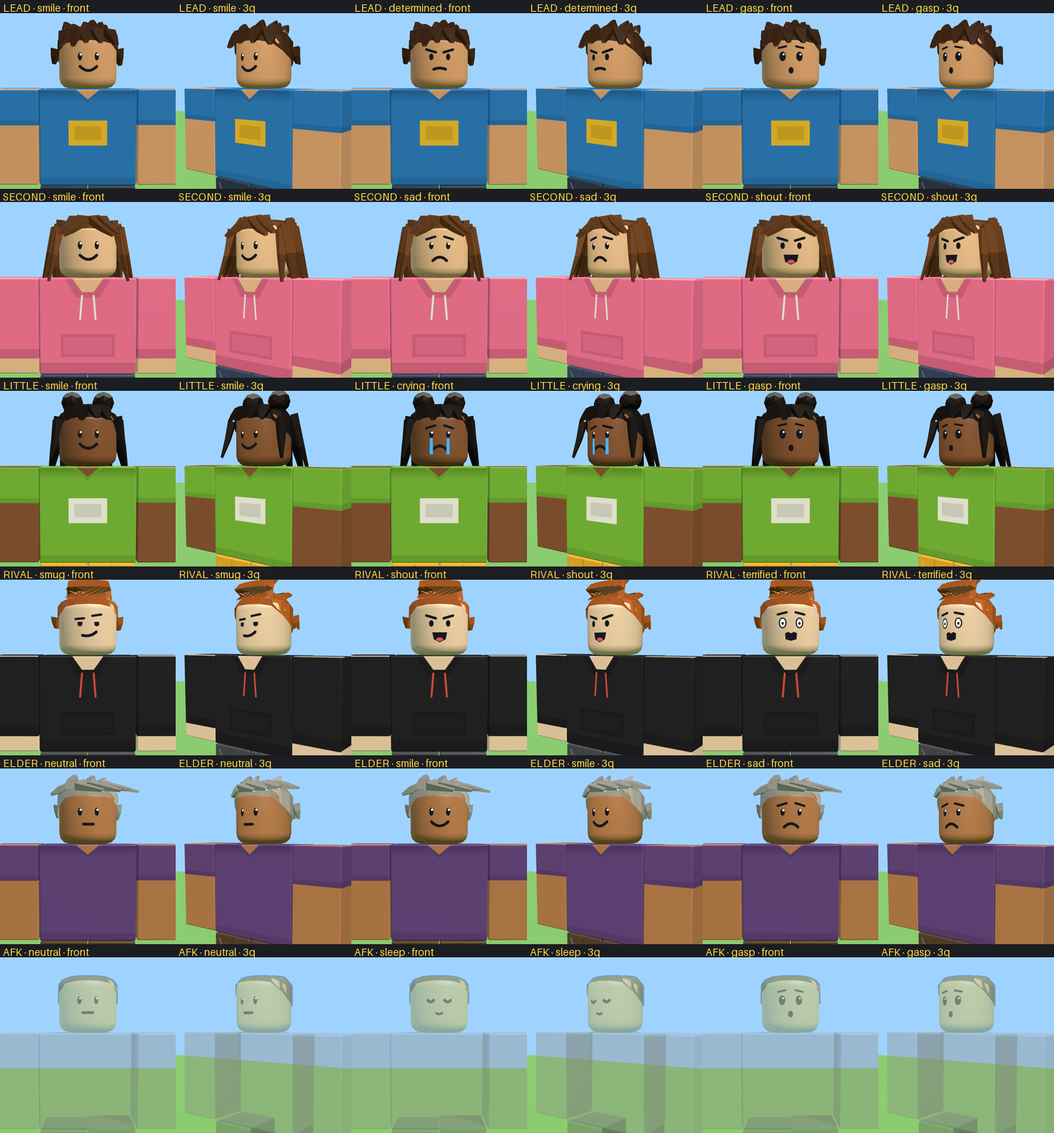
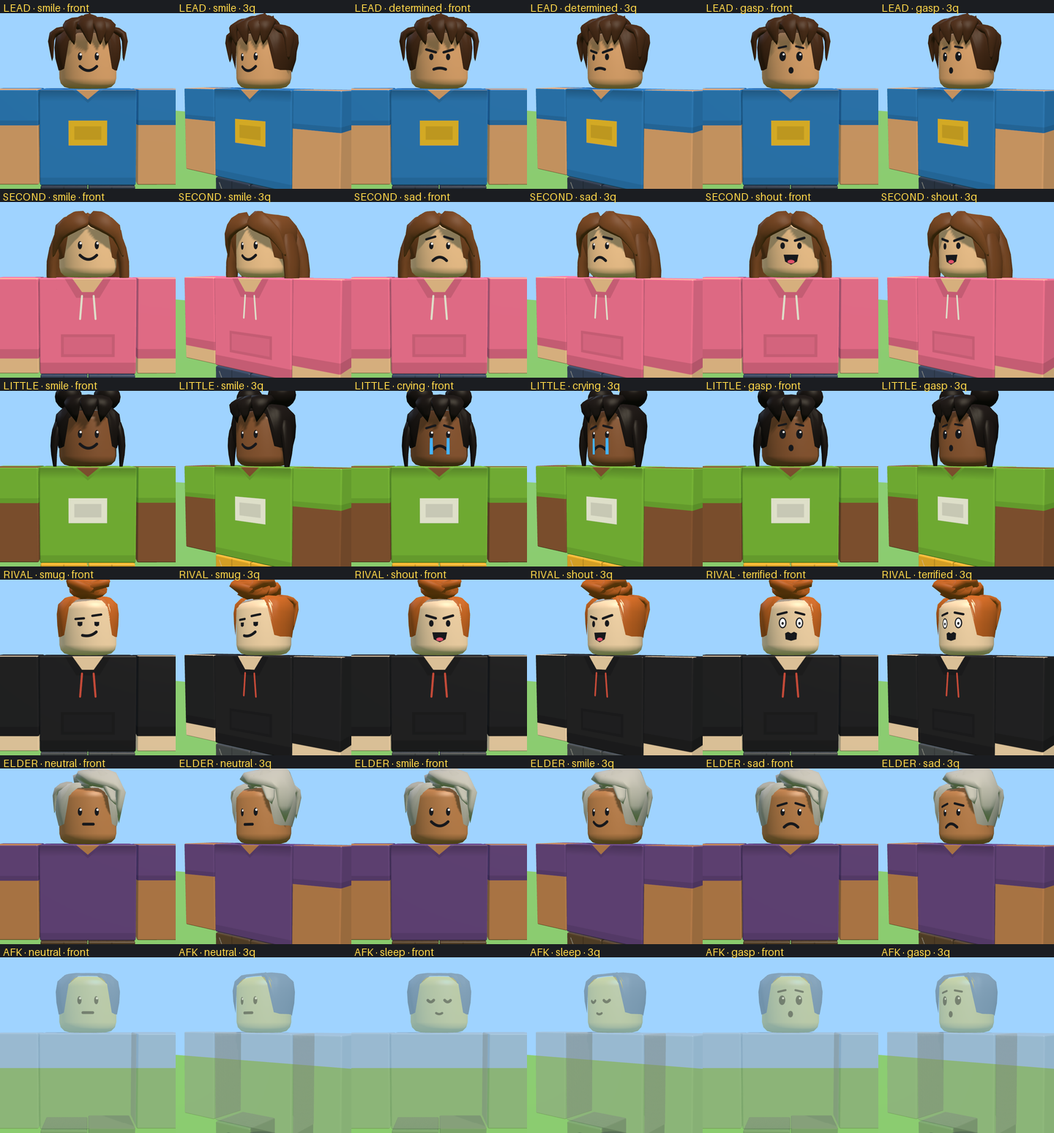
Session 8b: stop at the §E night gate (fails after two fix passes, numbers reported); far-tag fix; troupe sheet on v4; report
Claude-Session: https://claude.ai/code/session_01J6UjxwALwUXzwUnfoeqYWB

diff --git a/engine/fixtures/looktest/egg.js b/engine/fixtures/looktest/egg.js
@@ -9,9 +9,10 @@
 // Two kits from one layout (spec.kit): 'old' = the v2 kit (flat plates, Phong, block clouds), 'new' = A4 (terrain,
 // suburb biome, Standard hero materials with the env map, vegetation, water, v3 sky with stars and moon, height fog).
 import * as T from 'three';
+import {mergeGeometries, mergeVertices} from 'three/addons/utils/BufferGeometryUtils.js';
 
 export const TEAM = ['#e4574a', '#f2b632', '#2f80d1', '#9b59b6', '#1fb5a8', '#ff7aa8', '#7fc241', '#ff8c2e', '#4ad8ff', '#c0392b', '#f2e14a', '#8a6be8'];
-export const LOOK = spec => spec.kit === 'old' ? null : {fog: {color: '#2a3a66', near: 80, far: 340, height: {base: 0, falloff: 5, amount: .32, near: 30}}, envPreset: 'night', envIntensity: .5, cloudCover: .55, moon: {az: 172, el: 14, size: 3.2}, starDensity: 1.6};
+export const LOOK = spec => spec.kit === 'old' ? null : {fog: {color: '#2f5a86', near: 90, far: 360, height: {base: 0, falloff: 5, amount: .26, near: 30}}, envPreset: 'nightBright', envIntensity: .5, cloudCover: .55, moon: {az: 172, el: 14, size: 3.2}, starDensity: 1.6};
 export const LAYER = {plaza: .14, road: .1};
 const SQ = 18, ROAD = 33, BASE_R = 47, POND = [52, 44];
 
@@ -30,7 +31,7 @@ export function build(scene, {P, B, A, M, PR, TR, BI, V, W, look, spec}) {
       ...bases.map(b => ({type: 'pad', x0: b.x - 8, x1: b.x + 8, z0: b.z - 8, z1: b.z + 8, y: .4 + (b.i % 3) * .3, blend: 8})),
       {type: 'valley', from: [POND[0] - 8, POND[1]], to: [POND[0] + 10, POND[1] + 6], w: 16, depth: 3.2}];
     const height = TR.heightFn({seed: 5, controls}); groundY = height;
-    const terr = TR.buildTerrain({height, size: 640, chunk: 40, fine: 2, fullR: 70, focus: [[0, 10], [30, 40], [0, -30]], material: M.splatMaterial(bio.terrain.layers), splat: bio.terrain});
+    const terr = TR.buildTerrain({height, size: 660, chunk: 30, fine: 1.5, fullR: 60, focus: [[0, 10], [30, 40], [0, -30], [0, 76], [11, 32]], material: M.splatMaterial(bio.terrain.layers, {splat: bio.terrain, wetY: -1.1}), splat: bio.terrain});   // A5: per-pixel blend, 1.5-unit cells near the cameras
     scene.add(terr);
     const wat = W.water({height, x0: POND[0] - 22, x1: POND[0] + 24, z0: POND[1] - 14, z1: POND[1] + 18, y: -1.1, ...bio.water, sky: '#3a5aa0', foam: .1, envMap: look.envMap?.()});
     scene.add(wat.mesh); movers.push(wat);
@@ -38,16 +39,16 @@ export function build(scene, {P, B, A, M, PR, TR, BI, V, W, look, spec}) {
     const veg = V.vegetation({height, veg: {...bio.vegetation, flowerColors: ['#ffffff', '#9fc2ff', '#ffd23f']}, area: {x0: -150, x1: 150, z0: -150, z1: 130}, seed: 9, avoid, focus: [[0, 30], [36, 36]], nearR: 26, waterY: -1.1});
     scene.add(veg.group); movers.push(veg);
     // cloudtop bank beyond the town (the nest's world): soft white mounds lit by the moon
-    const cm = new T.MeshLambertMaterial({color: '#f4f6ff', emissive: '#8a9ad0', emissiveIntensity: .7, flatShading: true, fog: false}), cg = [];
-    for (let i = 0; i < 46; i++) { const g = new T.IcosahedronGeometry(16 + R() * 26, 2); g.scale(1.6, .7 + R() * .3, 1); g.translate(-300 + i * 13 + R() * 10, 52 + R() * 40 + Math.sin(i * .7) * 14, -330 - R() * 60); cg.push(g); }
-    const bank = new T.Mesh(merge(cg), cm); bank.name = 'cloudtop'; scene.add(bank);
+    const cm = new T.MeshLambertMaterial({color: '#f4f6ff', emissive: '#8a9ad0', emissiveIntensity: .7, fog: false}), cg = [];   // A5: smooth
+    for (let i = 0; i < 46; i++) { const g = mergeVertices((g0 => { g0.deleteAttribute('uv'); g0.deleteAttribute('normal'); return g0; })(new T.IcosahedronGeometry(16 + R() * 26, 3))); g.scale(1.6, .7 + R() * .3, 1); g.translate(-300 + i * 13 + R() * 10, 52 + R() * 40 + Math.sin(i * .7) * 14, -330 - R() * 60); cg.push(g); }
+    const bank = new T.Mesh((m => { m.computeVertexNormals(); return m; })(mergeGeometries(cg)), cm); bank.name = 'cloudtop'; scene.add(bank);
   } else {
     scene.add(P.plate(420, 420, {at: [0, -.2, 0], pattern: 'grass', color: '#79a85a'}));
     scene.add(P.plate(46, 32, {at: [POND[0], -.15, POND[1]], pattern: 'water', color: '#4f8fae', thick: .2}));
     for (let i = 0; i < 40; i++) { const a = R() * 6.28, r = 70 + R() * 80, t = PR.smallProp('tree', i); t.position.set(Math.sin(a) * r, 0, Math.cos(a) * r); scene.add(t); }
   }
   // plaza disc and ring road (ribbons follow the ground)
-  const plaza = P.cylinder(SQ, .4, {seg: 40, mat: mt('cobble', '#b9b2a6'), name: 'plaza'}); plaza.position.set(0, groundY(0, 0) + LAYER.plaza - .2, 0); scene.add(plaza);
+  const plaza = P.cylinder(SQ, .4, {seg: 40, mat: mt('cobble', NEW ? '#7d786e' : '#b9b2a6'), name: 'plaza'});   // A5: darker under the night key so the cast reads brighter than the ground plaza.position.set(0, groundY(0, 0) + LAYER.plaza - .2, 0); scene.add(plaza);
   const ring = new T.EllipseCurve(0, 0, ROAD, ROAD, 0, Math.PI * 2), rp = ring.getPoints(64).map(p => new T.Vector3(p.x, 0, p.y)), road = new T.CatmullRomCurve3(rp, true);
   scene.add(B.ribbon(road, 8, (x, z) => groundY(x, z) + LAYER.road, {material: mt('asphalt', '#5a5d66'), tile: 6}));
   for (const k of [0, 3, 6, 9]) { const a = (k + .5) / 12 * Math.PI * 2, c = new T.LineCurve3(new T.Vector3(Math.sin(a) * (SQ - 1), 0, Math.cos(a) * (SQ - 1)), new T.Vector3(Math.sin(a) * (ROAD - 3), 0, Math.cos(a) * (ROAD - 3))); scene.add(B.ribbon(c, 5, (x, z) => groundY(x, z) + LAYER.road + .02, {material: mt('concrete', '#a8a49a')})); }
@@ -97,7 +98,7 @@ export function build(scene, {P, B, A, M, PR, TR, BI, V, W, look, spec}) {
   const lamp = () => { const g = new T.Group(); g.add(P.cylinder(.16, 5, {at: [0, 2.5, 0], seg: 6, mat: mt('metal', '#2e3138')})); const l = new T.Mesh(new T.BoxGeometry(.7, .9, .7), new T.MeshPhongMaterial({color: '#fff1c8', emissive: '#ffc46b', emissiveIntensity: 1.4})); l.position.y = 5.3; g.add(l); return g; };
   // warm light pools under lamps and doors (additive ground decals: cheap practical light at night)
   let poolTex = null;
-  const pool = (x, z, r = 5, c = '#ffb45a', o = .55) => {
+  const pool = (x, z, r = 5, c = '#ffb45a', o = .32) => {
     if (!poolTex && typeof document !== 'undefined') { const cv = document.createElement('canvas'); cv.width = cv.height = 128; const g = cv.getContext('2d'), gr = g.createRadialGradient(64, 64, 0, 64, 64, 64); gr.addColorStop(0, 'rgba(255,255,255,1)'); gr.addColorStop(.5, 'rgba(255,255,255,.35)'); gr.addColorStop(1, 'rgba(255,255,255,0)'); g.fillStyle = gr; g.fillRect(0, 0, 128, 128); poolTex = new T.CanvasTexture(cv); }
     const m = new T.Mesh(new T.PlaneGeometry(2 * r, 2 * r), new T.MeshBasicMaterial({map: poolTex, color: c, transparent: true, opacity: o, blending: T.AdditiveBlending, depthWrite: false, fog: true}));
     m.rotation.x = -Math.PI / 2; m.position.set(x, groundY(x, z) + .3, z); m.renderOrder = 2; scene.add(m); return m; };
@@ -111,15 +112,18 @@ export function build(scene, {P, B, A, M, PR, TR, BI, V, W, look, spec}) {
   scene.add(hero);
   if (NEW) {
     // warm practical light: two real point lights over the square (≤ 4 allowed) key the avatars and pool on the cobbles
-    for (const [x, z] of [[-9, 10], [9, 6]]) { const l = new T.PointLight('#ffb866', 26, 30, 1.6); l.position.set(x, groundY(x, z) + 6.5, z); scene.add(l); }
+    for (const [x, z] of [[-9, 10], [9, 6]]) { const l = new T.PointLight('#ffb866', 14, 26, 1.6); l.position.set(x, groundY(x, z) + 7.5, z); scene.add(l); }
+    // A5 §E: a glowing egg on the square is a real light source (third point light of ≤ 4)
+    const eg = new T.Mesh(new T.SphereGeometry(.55, 16, 12), new T.MeshPhongMaterial({color: '#fff3c8', emissive: '#ffc14a', emissiveIntensity: 1.6})); eg.scale.set(1, 1.3, 1); eg.position.set(-.6, groundY(0, 10) + .75, 11.5); eg.name = 'egg'; scene.add(eg);
+    const el = new T.PointLight('#ffcc66', 18, 14, 1.4); el.position.set(-.6, groundY(0, 10) + 1.6, 11.5); scene.add(el);
     // gardens: a hedge pair flanking every base door + a tree between neighbouring bases
-    const hedge = new T.MeshPhongMaterial({color: '#4f7a3a', flatShading: true, shininess: 6}), trunk = new T.MeshPhongMaterial({color: '#5a4232', flatShading: true}), crown = new T.MeshPhongMaterial({color: '#3f6a34', flatShading: true});
+    const hedge = new T.MeshPhongMaterial({color: '#4f7a3a', shininess: 6, map: M.patternTexture('leaves')}), trunk = new T.MeshPhongMaterial({color: '#5a4232', map: M.patternTexture('bark')}), crown = new T.MeshPhongMaterial({color: '#3f6a34', shininess: 8, map: M.patternTexture('leaves')});   // A5: smooth
     for (const b of bases) {
       const fx = -Math.sin(b.a), fz = -Math.cos(b.a), sx = Math.cos(b.a), sz = -Math.sin(b.a);
-      for (const k of [-1, 1]) { const h = new T.Mesh(new T.IcosahedronGeometry(1.3, 0), hedge); h.scale.set(1.5, .9, 1); const x = b.x + fx * 6.5 + sx * k * 4.2, z = b.z + fz * 6.5 + sz * k * 4.2; h.position.set(x, groundY(x, z) + .9, z); h.rotation.y = b.a; h.castShadow = true; scene.add(h); }
+      for (const k of [-1, 1]) { const h = new T.Mesh(new T.IcosahedronGeometry(1.3, 1), hedge); h.scale.set(1.5, .9, 1); const x = b.x + fx * 6.5 + sx * k * 4.2, z = b.z + fz * 6.5 + sz * k * 4.2; h.position.set(x, groundY(x, z) + .9, z); h.rotation.y = b.a; h.castShadow = true; scene.add(h); }
       const a2 = b.a + Math.PI / 12, x = Math.sin(a2) * (BASE_R + 3), z = Math.cos(a2) * (BASE_R + 3), y = groundY(x, z);
       const tr = new T.Mesh(new T.CylinderGeometry(.4, .55, 4, 5), trunk); tr.position.set(x, y + 2, z); scene.add(tr);
-      for (const [dy, r] of [[5.2, 2.8], [6.8, 2.1]]) { const c = new T.Mesh(new T.IcosahedronGeometry(r, 0), crown); c.position.set(x, y + dy, z); c.castShadow = true; scene.add(c); }
+      for (const [dy, r] of [[5.2, 2.8], [6.8, 2.1]]) { const c = new T.Mesh(new T.IcosahedronGeometry(r, 1), crown); c.position.set(x, y + dy, z); c.castShadow = true; scene.add(c); }
     }
   }
   movers.push(A.birds({centre: [10, 46, -40], n: 4, r: 30, seed: 3}));

diff --git a/scripts/v2/look-gates.js b/scripts/v2/look-gates.js
@@ -1,0 +1,57 @@
+// scripts/v2/look-gates.js — measured look gates (Amendment A5 §E night brightness, §F framing). Exit 1 on failure.
+//   node scripts/v2/look-gates.js --spec <episode.json> [--night <shot ids>] [--framing] [--out <file.json>]
+// Renders each tested shot's middle frame at 390×693 (phone width) and measures, on the sRGB pixels (luma 0–1, Rec. 709):
+//   night (§E): frame mean 0.24–0.42 · mean inside each hero actor's box ≥ 0.40 · box − its surrounding ring ≥ 0.12
+//     (ring = the box grown by 50 % of its size on every side, minus the box; hero = troupe actors except AFK, or spec.lumaActors)
+//   framing (§F, shots with `fit`): subject height (head & shoulders for part 'head', else the full actor) ≥ 45 % close,
+//     ≥ 30 % medium/heroLow; empty ground below the feet ≤ 28 % unless the shot is `spectacle`.
+import {writeFile, mkdir} from 'node:fs/promises';
+import path from 'node:path';
+import {readFileSync} from 'node:fs';
+import {startServer} from './server.js';
+import {launch} from './browser.js';
+import {framingCheck} from '../../engine/camera.js';
+
+const argv = process.argv.slice(2), arg = (k, d) => { const i = argv.indexOf('--' + k); return i >= 0 ? argv[i + 1] : d; };
+const spec = arg('spec'), out = arg('out', `review/season1/look-gates-${path.basename(spec, '.json')}.json`), nightIds = (arg('night', '') || '').split(',').filter(Boolean), doFraming = argv.includes('--framing');
+const S = JSON.parse(readFileSync(spec, 'utf8')), W = 390, H = 693, LIM = {frame: [.24, .42], actor: .40, contrast: .12};
+const server = await startServer(), browser = await launch(), report = {spec, limits: {night: LIM, framing: {close: .45, medium: .30, heroLow: .30, groundMax: .28}}, night: [], framing: [], failures: []};
+try {
+  const page = await browser.newPage(); const errors = []; page.on('pageerror', e => errors.push(e.message));
+  await page.goto(`${server.url}/engine/episode.html?spec=${encodeURIComponent(spec)}&aa=1`); await page.waitForFunction(() => window.__episode, null, {timeout: 180000});
+  const shots = await page.evaluate(() => window.__episode.shots);
+  for (const sh of shots) {
+    const isNight = nightIds.includes(sh.id), isFit = doFraming && sh.fit; if (!isNight && !isFit) continue;
+    const n = sh.start + Math.floor(sh.frames / 2);
+    const m = await page.evaluate(([n, W, H]) => {
+      const E = window.__episode; E.renderFrame(n, W, H); const meas = E.measureFrame(), gl = E.debug.renderer.getContext(), px = new Uint8Array(W * H * 4); gl.readPixels(0, 0, W, H, gl.RGBA, gl.UNSIGNED_BYTE, px);
+      const L = (x, y) => { const i = ((H - 1 - y) * W + x) * 4; return (.2126 * px[i] + .7152 * px[i + 1] + .0722 * px[i + 2]) / 255; };
+      const mean = (x0, x1, y0, y1, skip) => { let s = 0, k = 0; for (let y = Math.max(0, y0); y < Math.min(H, y1); y++) for (let x = Math.max(0, x0); x < Math.min(W, x1); x++) { if (skip && skip(x, y)) continue; s += L(x, y); k++; } return k ? s / k : null; };
+      const frame = mean(0, W, 0, H), actors = {};
+      for (const [name, a] of Object.entries(meas)) { const b = a.box, X0 = Math.round(b.x0 * W), X1 = Math.round(b.x1 * W), Y0 = Math.round(b.y0 * H), Y1 = Math.round(b.y1 * H), gw = Math.round((X1 - X0) * .5), gh = Math.round((Y1 - Y0) * .5);
+        const inBox = mean(X0, X1, Y0, Y1), ring = mean(X0 - gw, X1 + gw, Y0 - gh, Y1 + gh, (x, y) => x >= X0 && x < X1 && y >= Y0 && y < Y1);
+        actors[name] = {...a, luma: inBox, ring}; }
+      return {frame, actors};
+    }, [n, W, H]);
+    if (isNight) {
+      const heroes = Object.entries(m.actors).filter(([k, a]) => (S.lumaActors ? S.lumaActors.includes(k) : a.troupe && a.troupe !== 'AFK') && a.front && a.box.x1 > 0 && a.box.x0 < 1 && a.box.y1 > 0 && a.box.y0 < 1);
+      const row = {shot: sh.id, frame: n, look: sh.look, frameLuma: +m.frame.toFixed(3), actors: Object.fromEntries(heroes.map(([k, a]) => [k, {luma: +a.luma.toFixed(3), ring: +a.ring.toFixed(3), contrast: +(a.luma - a.ring).toFixed(3)}]))};
+      report.night.push(row);
+      if (m.frame < LIM.frame[0] || m.frame > LIM.frame[1]) report.failures.push(`${sh.id}: frame luma ${m.frame.toFixed(3)} outside ${LIM.frame}`);
+      if (!heroes.length) report.failures.push(`${sh.id}: no hero actor in frame`);
+      for (const [k, a] of heroes) { if (a.luma < LIM.actor) report.failures.push(`${sh.id}/${k}: actor luma ${a.luma.toFixed(3)} < ${LIM.actor}`); if (a.luma - a.ring < LIM.contrast) report.failures.push(`${sh.id}/${k}: box − ring ${(a.luma - a.ring).toFixed(3)} < ${LIM.contrast}`); }
+    }
+    if (isFit) {
+      const a = m.actors[sh.fit.actor]; if (!a) { report.failures.push(`${sh.id}: fit actor ${sh.fit.actor} not visible`); continue; }
+      const part = sh.fit.part ?? 'full', subjectFrac = part === 'head' ? a.shoulder - a.top : a.feet - a.top, groundGap = part === 'head' || a.feet > 1 ? 0 : Math.max(0, 1 - a.feet);
+      const chk = framingCheck({size: sh.size, move: sh.move, subjectFrac, groundGap, spectacle: sh.spectacle});
+      report.framing.push({shot: sh.id, frame: n, size: sh.size, move: sh.move, part, subjectFrac: +subjectFrac.toFixed(3), groundGap: +groundGap.toFixed(3), need: chk.need, ok: chk.ok});
+      for (const i of chk.issues) report.failures.push(`${sh.id}: ${i}`);
+    }
+  }
+  if (errors.length) report.failures.push(...errors);
+  report.result = report.failures.length ? 'FAIL' : 'PASS';
+  await mkdir(path.dirname(out), {recursive: true}); await writeFile(out, JSON.stringify(report, null, 1));
+  console.log(JSON.stringify({result: report.result, night: report.night, framing: report.framing, failures: report.failures}, null, 1));
+  process.exitCode = report.failures.length ? 1 : 0;
+} finally { await browser.close(); await server.close(); }

diff --git a/engine/episode.js b/engine/episode.js
@@ -101,8 +101,8 @@ for (const s of shots) if (s.fit && s.fit.h === undefined && cast[s.fit.actor]) 
 // A4 night "actor lift" (opt-in spec.actorLift, v3 looks only): plastic avatars get a small self-light (emissive = their
 // own colour / texture × k) so they stay the highest-contrast thing in a dark frame. Faces (MeshBasic) are untouched.
 const usesNightBright = spec.look === 'nightBright' || (spec.shots ?? []).some(s => s.look === 'nightBright');
-if (look?.v3 && (spec.actorLift ?? (usesNightBright ? .24 : 0))) {   // A5 §E: on by default under nightBright
-  const k = spec.actorLift ?? .24, seen = new Set();
+if (look?.v3 && (spec.actorLift ?? (usesNightBright ? .5 : 0))) {   // A5 §E: on by default under nightBright
+  const k = spec.actorLift ?? .5, seen = new Set();
   for (const {a, v2} of Object.values(cast)) if (v2) a.root.traverse(o => { if (!o.isMesh || seen.has(o.material) || o.material.isMeshBasicMaterial || !o.material.emissive) return; const m = o.material; seen.add(m);
     if (m.map) { m.emissiveMap = m.map; m.emissive.setRGB(k, k, k); } else if (m.vertexColors) m.emissive.setRGB(k * .5, k * .45, k * .4); else m.emissive.copy(m.color).multiplyScalar(k); m.needsUpdate = true; });
 }
@@ -264,6 +264,20 @@ export function inspectFrame(n, width = 540, height = 960) {
   const cards = effects.cards(t, camera, width / height).map(k => ({cls: k.cls, kind: k.kind, rect: k.rect, landed: k.state.landed, fly: k.state.fly}));   // A3
   return {frame: n, shot: shot.id, camera: {position: c.position, target: c.target, fov: c.fov}, heads, cards};
 }
+// A5 gates: after renderFrame(n), projected boxes (frame fractions, y down) of visible v2 actors' meshes (no tags/sprites)
+// and their framing spans (feet, shoulders at 0.6 H, top at 1.02 H, projected at the actor's mark).
+export function measureFrame() {
+  const out = {}; camera.updateMatrixWorld(true); const v = new T.Vector3(), b = new T.Box3(), mb = new T.Box3();
+  for (const [name, {a, c, v2}] of Object.entries(cast)) {
+    if (!v2 || !a.root.visible) continue; b.makeEmpty();
+    a.root.traverseVisible(o => { if (!o.isMesh || o.isSprite) return; if (!o.geometry.boundingBox) o.geometry.computeBoundingBox(); mb.copy(o.geometry.boundingBox).applyMatrix4(o.matrixWorld); b.union(mb); });
+    if (b.isEmpty()) continue; let x0 = 1, x1 = 0, y0 = 1, y1 = 0, front = false;
+    for (let i = 0; i < 8; i++) { v.set(i & 1 ? b.max.x : b.min.x, i & 2 ? b.max.y : b.min.y, i & 4 ? b.max.z : b.min.z).project(camera); if (v.z < 1) front = true; const x = (v.x + 1) / 2, y = (1 - v.y) / 2; x0 = Math.min(x0, x); x1 = Math.max(x1, x); y0 = Math.min(y0, y); y1 = Math.max(y1, y); }
+    const H = 5.3 * a.root.scale.y, m = markPos[name] ?? a.root.position.toArray(), py = h => (1 - v.set(m[0], m[1] + h, m[2]).project(camera).y) / 2;
+    out[name] = {front, box: {x0, x1, y0, y1}, feet: py(0), shoulder: py(.6 * H), top: py(1.02 * H), troupe: c.troupe ?? null};
+  }
+  return out;
+}
 export function shotSpeed(i) { const s = shots[i]; return maxTargetSpeed({...s, fps: FPS, openHit: false}, tt => poseCast(s.start / FPS + tt), FPS); }
 
-window.__episode = {debug: {scene, renderer}, breakdown, inspectFrame, shotSpeed, END: FRAMES / FPS, anchors: Object.fromEntries(Object.entries(anchors).filter(([, a]) => a.camera).map(([k]) => [k, true])), renderAnchor, renderAnchorNudged, renderCamera, FPS, FRAMES, shots: shots.map(({id, start, frames, size, move, loc, subject, see, openHit, at, why, captionY}) => ({id, start, frames, size, move, loc, subject, see, openHit: !!openHit, at, why, captionY})), renderFrame};
+window.__episode = {debug: {scene, renderer}, breakdown, measureFrame, inspectFrame, shotSpeed, END: FRAMES / FPS, anchors: Object.fromEntries(Object.entries(anchors).filter(([, a]) => a.camera).map(([k]) => [k, true])), renderAnchor, renderAnchorNudged, renderCamera, FPS, FRAMES, shots: shots.map(({id, start, frames, size, move, loc, subject, see, openHit, at, why, captionY, fit, spectacle, look: lk}) => ({id, start, frames, size, move, loc, subject, see, openHit: !!openHit, at, why, captionY, fit, spectacle: !!spectacle, look: lk})), renderFrame};

diff --git a/engine/ruleui.js b/engine/ruleui.js
@@ -16,6 +16,7 @@ export const MIN_CAP = {tag: .024, stat: .03, bar: .03, plate: .03, icon: .03, c
 // Text cap height as a fraction of the drawn sprite's height (measured from the canvas layouts below and in overhead.js).
 export const CAP_RATIO = {nameTag: .5, nameTagRole: .35, tag: .5, stat: .35, bar: .17, plate: .41, icon: .6, checklist: .12, card: .1};
 export const SAFE = {side: .05, top: .08, bottom: .95, band: [.58, .74]};
+const MAX_DIST = 45;   // world units: farther tags/UI keep their natural size (a far crowd of tags must not grow to 2.4 %)
 // Scale factor (≥ 1) that lifts a cap height of `capFrac` to at least `minFrac`.
 export const minScale = (capFrac, minFrac) => capFrac > 0 && capFrac < minFrac ? minFrac / capFrac : 1;
 // Shift {dx, dy} (frame fractions, y down) that moves rect {x0, x1, y0, y1} inside the safe area and out of the caption band.
@@ -46,6 +47,7 @@ export function enforceReadable(scene, camera, {focus = [], band = SAFE.band} = 
     const d = _w.clone().sub(_c).dot(new T.Vector3(0, 0, -1).applyQuaternion(_q)); if (d <= .1) continue;
     const frameH = 2 * d * tanH, frameW = frameH * camera.aspect;
     const key = kind === 'nameTag' || kind === 'nameTagRole' ? 'tag' : kind, minF = focus.includes(o.userData.uiId) ? MIN_CAP.focus : MIN_CAP[key] ?? .03;
+    const ndc0 = _w.clone().project(camera); if (Math.abs(ndc0.x) > 1 || Math.abs(ndc0.y) > 1 || d > MAX_DIST) continue;   // only elements anchored inside the frame and near enough to matter
     const k = minScale(Hw / frameH * (CAP_RATIO[kind] ?? .35), minF); if (k > 1) o.scale.multiplyScalar(k);
     const ndc = _w.clone().project(camera), cx = (ndc.x + 1) / 2, by = (1 - ndc.y) / 2, h = Hw * k / frameH, w = Ww * k / frameW;   // sprites anchor bottom-centre
     const {dx, dy} = safeShift({x0: cx - w / 2, x1: cx + w / 2, y0: by - h, y1: by}, {band});

diff --git a/engine/fixtures/tools/world.js b/engine/fixtures/tools/world.js
@@ -12,8 +12,8 @@ export function build(scene, {P, B, A, M, PR, TR, BI, V, W, look, spec}) {
   const controls = [{type: 'noise', amp: 1.2, scale: 30}, {type: 'ridge', from: [-260, -150], to: [260, -140], w: 80, h: 30}, {type: 'hill', at: [-110, 0], r: 80, h: 22}, {type: 'hill', at: [120, 20], r: 80, h: 18},
     {type: 'pad', x0: -14, x1: 14, z0: 10, z1: 34, y: 0, blend: 8}, {type: 'river', points: [[-200, 70], [0, 62], [200, 74]], w: 12, depth: 2.4, bank: 6}];
   const height = TR.heightFn({seed: 31, controls});
-  const mat = M.splatMaterial(bio.terrain.layers);
-  scene.add(TR.buildTerrain({height, size: 560, chunk: 40, fine: 2, fullR: 60, focus: [[0, 20], [0, -50]], material: mat, splat: bio.terrain}));
+  const mat = M.splatMaterial(bio.terrain.layers);   // per-vertex: the landform giant keeps its Session 8 material (out of scope in 8b)
+  scene.add(TR.buildTerrain({height, size: 570, chunk: 30, fine: 1.5, fullR: 60, focus: [[0, 20], [0, -50], [0, 60], [4, 43]], material: M.splatMaterial(bio.terrain.layers, {splat: bio.terrain, wetY: -1.2}), splat: bio.terrain}));   // A5: per-pixel blend
   const wat = W.water({height, x0: -220, x1: 220, z0: 52, z1: 84, y: -1.2, ...bio.water, sky: '#b9c9d6', flow: [1, 0], speed: .06, envMap: look.envMap?.()}); scene.add(wat.mesh); movers.push(wat);
   const veg = V.vegetation({height, veg: bio.vegetation, area: {x0: -180, x1: 180, z0: -160, z1: 140}, seed: 6, focus: [[0, 26]], nearR: 22, waterY: -1.2,
     avoid: (x, z) => (Math.abs(x) < 20 && z > 0 && z < 40) || Math.hypot(x - GIANT[0], (z - GIANT[1]) * .8) < 90 || (Math.abs(x) < 4 && z < 10 && z > -20)});

diff --git a/engine/look.js b/engine/look.js
@@ -15,8 +15,8 @@ export const PRESETS = {
   storm: {skyTop: '#4a5566', skyHorizon: '#8a96a6', fog: '#8a96a6', fogNear: 40, fogFar: 200, hemiSky: '#b8c2d0', hemiGround: '#55604a', hemi: 1.0,
     sun: '#dfe6f0', sunI: 1.0, sunEl: 60, sunAz: 20, rim: '#cfd8e6', rimI: .3, cloud: '#7d8796', exposure: 1.05, windows: .3},
   // A5 §E: a night bright enough for a phone: strong cool moon key, teal-blue ambient, raised exposure (episode 1 is all night)
-  nightBright: {skyTop: '#123a6a', skyHorizon: '#4a86b8', fog: '#2f5a86', fogNear: 90, fogFar: 340, hemiSky: '#8fd0e0', hemiGround: '#35566e', hemi: 1.9,
-    sun: '#cfe0ff', sunI: 2.3, sunEl: 38, sunAz: 168, rim: '#b8dcff', rimI: 1.5, cloud: '#5a76a8', exposure: 1.5, windows: 1.5},
+  nightBright: {skyTop: '#123a6a', skyHorizon: '#4a86b8', fog: '#2f5a86', fogNear: 90, fogFar: 340, hemiSky: '#7cc0d4', hemiGround: '#22394a', hemi: 1.15,
+    sun: '#cfe0ff', sunI: 1.6, sunEl: 38, sunAz: 168, rim: '#c4e2ff', rimI: 3.4, cloud: '#5a76a8', exposure: 1.16, windows: 1.5},
   fireNight: {skyTop: '#3a2244', skyHorizon: '#ff9a5a', fog: '#8a4a42', fogNear: 60, fogFar: 260, hemiSky: '#ffb487', hemiGround: '#4a3a5a', hemi: 1.5,
     sun: '#ff9a4a', sunI: 1.6, sunEl: 26, sunAz: 300, rim: '#9fc2ff', rimI: 1.2, cloud: '#6a3a48', exposure: 1.35, windows: 1.2},
 };

diff --git a/engine/fixtures/looktest/ragdoll.js b/engine/fixtures/looktest/ragdoll.js
@@ -41,7 +41,7 @@ export function build(scene, {P, B, A, M, PR, TR, BI, V, W, look, spec}) {
       {type: 'river', points: [[-400, 150], [-100, 156], [100, 146], [400, 152]], w: 16, depth: 3, bank: 8}];
     const height = TR.heightFn({seed: 17, base: BASE, controls}); groundY = height;
 
-    scene.add(TR.buildTerrain({height, size: 720, chunk: 40, fine: 2, fullR: 60, focus: [[0, 60], [0, 0], [0, -60]], centre: [0, -20], material: M.splatMaterial(bio.terrain.layers), splat: bio.terrain}));
+    scene.add(TR.buildTerrain({height, size: 720, chunk: 30, fine: 1.5, fullR: 60, focus: [[0, 60], [0, 0], [0, -60], [3, 96], [-5, 30]], centre: [0, -20], material: M.splatMaterial(bio.terrain.layers, {splat: bio.terrain, wetY: VALLEY_Y - 1.4}), splat: bio.terrain}));   // A5: per-pixel blend, 1.5-unit cells
     const wat = W.water({height, x0: -300, x1: 300, z0: 128, z1: 172, y: VALLEY_Y - 1.4, ...bio.water, sky: '#cfe4f5', flow: [1, .1], speed: .08, envMap: look.envMap?.()});
     scene.add(wat.mesh); movers.push(wat);
     const avoid = (x, z) => (Math.abs(x) < 24 && z > -110 && z < 92) || lots.some(l => Math.abs(x - l.x) < 8 && Math.abs(z - l.z) < 8);

diff --git a/PROGRESS.md b/PROGRESS.md
@@ -372,3 +372,51 @@ Also built: `render.js --final` (1440×2560, AA). `scripts/v2/qc.py` (`npm run v
 7. F: pure `fit` framing (close ≥ 45 %, medium/heroLow ≥ 30 %, empty ground ≤ 28 %) + tests; demo shots use it.
 8. G: re-shoot tools-demo (+ nightBright medium, close-up with crowd), 3-column look-ab; bench, stability, Nobody 11-frame
    re-render; three weakest things per sheet in this file; PR; stop.
+
+## Session 8b — STOPPED at §E (night luma check failed after two fix passes; reported, not loosened) — 2026-11-14
+- **Done:**
+  - **§S:** the acceptance rule is in `CLAUDE.md`.
+  - **§A:** `avatar-style/hair4.js` holds all 20 styles as data tables. They use only the blocks `mass`, `clump`, `bun`, `braid` and `curls`, in hero, mid and crowd tiers. `hair: {v: 4}` is wired in, and the troupe uses it.
+  - **§A gates:** `scripts/v2/hair-gates.js` (+ `engine/hairgate.html`) → `hair-gates.json` **PASS** for all 20 styles:
+    - scalp leak 0 px on every view (buzz included);
+    - closest outline pair IoU 0.763 / 0.839 (`messy_fringe`–`curtains`, front/side);
+    - thin bits ≤ 6 %;
+    - hero ≤ 2,276 tris (curly_top), mid ≤ 618, crowd 50;
+    - eye line held on every tier.
+  - **§B:** crowd heads are the low lathe head with v4 crowd hair in six colours. A pure `promoteNear` (close/medium, < 9 units, ≤ 8, nearest first) swaps near members for mid-tier actors.
+  - **§C:** pure `minScale` / `safeShift` (tags 2.4 %, stats/plates 3 %, `focusUi` 4.5 %; 5 % sides, 8 % top, caption band 58–74 %), applied per frame in v3 worlds only. Elements anchored off-frame or farther than 45 units are left alone; this fixes a bug where far tags were enlarged.
+  - **§D:** per-pixel splat blend (world normal + height + world-space noise; wet band at the waterline), 1.5-unit near cells, smooth welded blob trees (≤ 252 tris, `leaves`/`bark`), stronger water, contrasty storm clouds. Landform geometry and material untouched (owner's rule).
+  - **§E (partly):** `nightBright` look; `actorLift` on by default under it; a glowing egg as a third point light.
+  - **§F:** pure `fitDistance` / `applyFit` / `framingCheck` + `fit` on heroLow, snap, push and orbit.
+  - Tests: `v2:test` 64 Node pass (new `tests/v2/s8b.test.js`).
+- **§E night check FAILS** (`node scripts/v2/look-gates.js --spec engine/fixtures/looktest/egg-new.json --night square,street` → `review/season1/look-gates-egg-new.json`). Pass lines: frame 0.24–0.42, actor ≥ 0.40, box − ring ≥ 0.12.
+
+  | View | Frame luma | Actor luma | Box − ring |
+  |---|---|---|---|
+  | square (start) | 0.523 | Kit 0.532 · Dax 0.551 | Kit −0.074 · Dax −0.017 |
+  | square (after pass 2) | 0.429 | Kit 0.461 · Dax 0.453 | Kit −0.045 · Dax −0.009 |
+  | street (after pass 2) | 0.378 | LITTLE 0.331 | −0.034 |
+
+  - Pass 1: lower exposure/ambient, darker plaza, softer lamp pools, actor lift 0.34.
+  - Pass 2: exposure 1.16, rim 3.4, actor lift 0.5.
+  - **Why it fails:** in the square view the heroes are small figures (about 4 % of frame height) standing on lamp-lit cobbles; Dax wears a near-black hoodie. Light added to the cast also lifts the ground around them; the sky and moon keep the frame mean up.
+  - **Likely next step (owner's call):** brighter clothing for night casts plus a darker ground tone, or a closer egg view for the gate.
+- **Not done (stopped before):**
+  - §F framing measured on real shots;
+  - §G (tools-demo re-shoot, three-column `look-ab.png`, 1 fps sheet);
+  - `v2:bench`, `v2:stability`, and the 11-frame Nobody re-render on the new code;
+  - the `CLAUDE.md` library lines for v4 / nightBright / fit.
+- **Three weakest things per sheet:**
+  - **`hair-sheet.png`:**
+    1. Sideburn mass reaches cheek height on every short cut, so fade/spiky/quiff read as wearing side panels in three-quarter view. It is needed to screen the face edge for the scalp-leak gate.
+    2. The quiff reads as a stacked orange pile on top, not a rolled front.
+    3. Curls (curly_top, curly_puffs) still read as separate beads, and long_braids' braids are small bead clusters at the jaw, barely visible from the front.
+  - **`hair-phone-390.png`:**
+    1. At medium size the fringe locks of messy_fringe/wolf_cut merge into one dark band over the brow.
+    2. wavy_bob's S-bend is invisible at phone size.
+    3. Six one-person cells instead of a group, so the styles are never compared side by side.
+  - **`troupe-sheet.png`:**
+    1. LEAD's heavy fringe throws a dark band across the forehead.
+    2. RIVAL's quiff is cropped by the frame top and reads as a pile.
+    3. AFK's buzz in ghosted grey-blue reads as a helmet.
+  - **`troupe-phone-390.png`:** not re-inspected after v4 (stopped).
